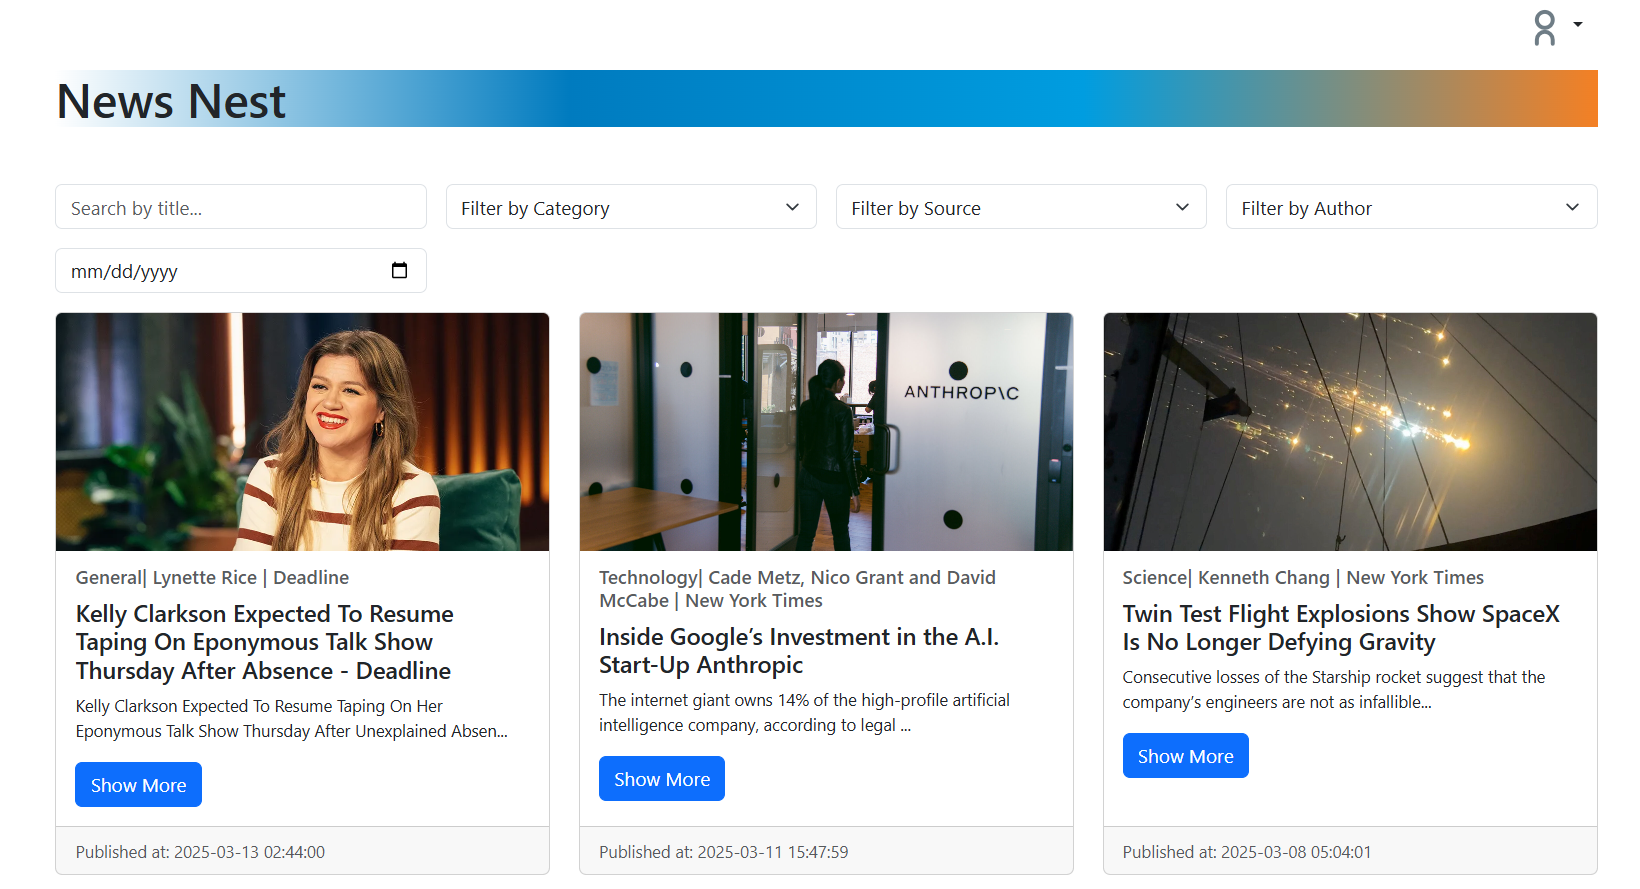
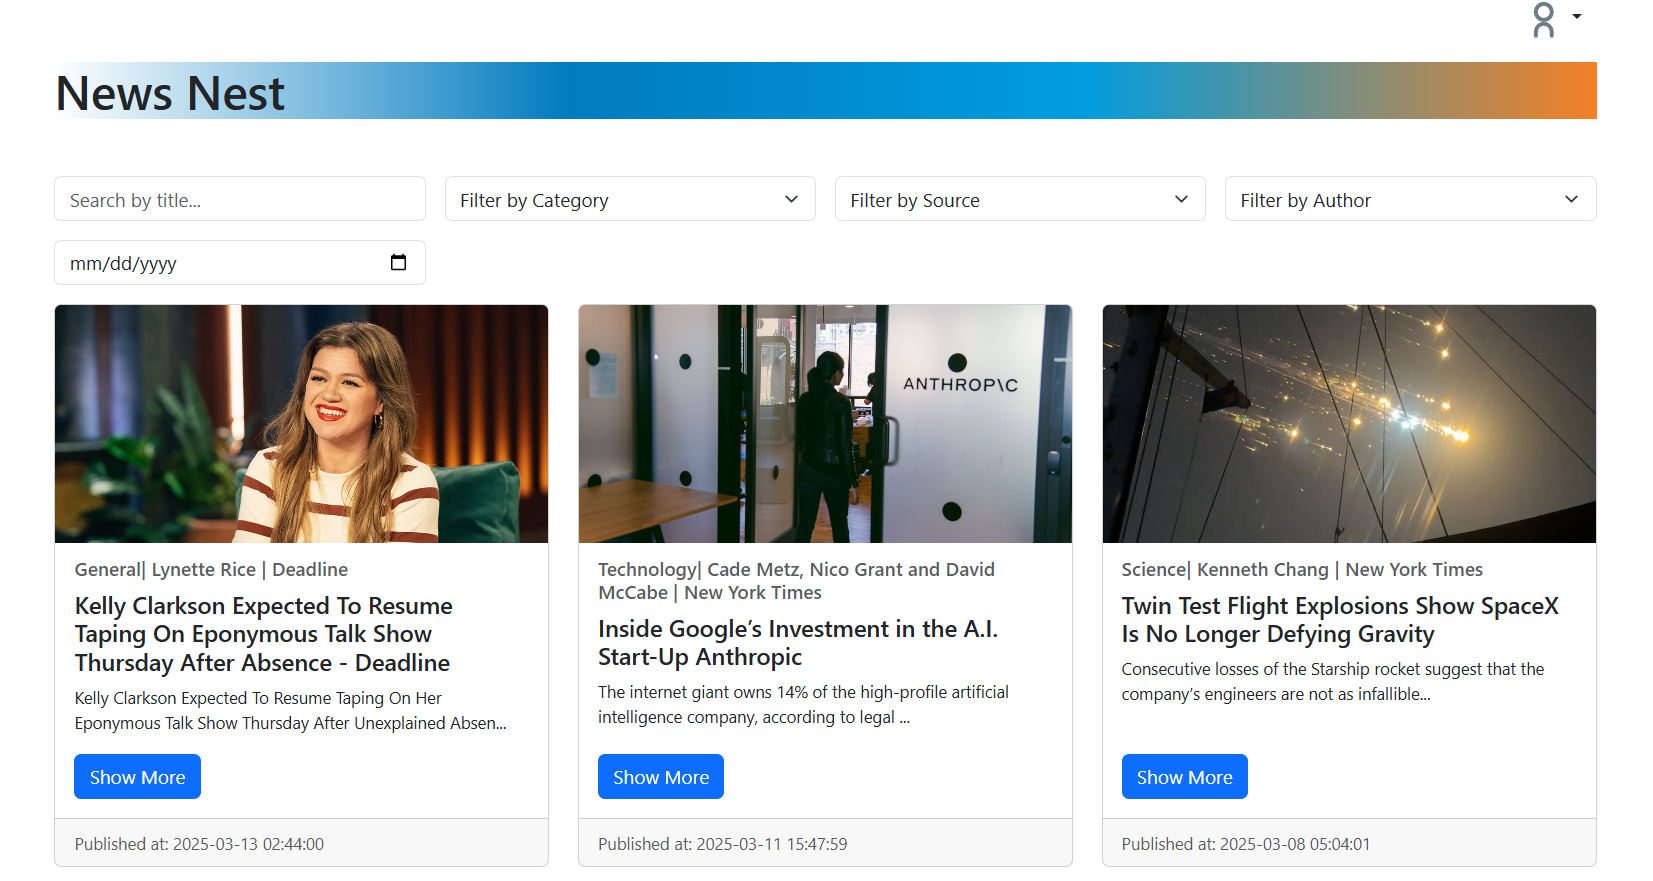
Fixing Button alignment in card

diff --git a/src/components/ArticleCard.tsx b/src/components/ArticleCard.tsx
@@ -3,7 +3,7 @@ import { ArticleCardProps } from "../types/types";
 
 const ArticleCard: React.FC<ArticleCardProps> = ({ article, setModalArticle }) => (
   <div className="col-md-4 mb-4">
-    <Card className="h-100">
+    <Card className="h-100 d-flex flex-column">
       <a href={article.url} target="_blank" rel="noopener noreferrer">
         <Card.Img
           variant="top"
@@ -11,16 +11,22 @@ const ArticleCard: React.FC<ArticleCardProps> = ({ article, setModalArticle }) =
           style={{ height: "200px", objectFit: "cover" }}
         />
       </a>
-      <Card.Body>
+      <Card.Body className="d-flex flex-column flex-grow-1">
         <Card.Subtitle className="mb-2 text-muted">
           {article.category.name.charAt(0).toUpperCase() + article.category.name.slice(1)}
           | {article.author.name} | {article.source.name}
         </Card.Subtitle>
         <Card.Title>{article.title}</Card.Title>
-        <Card.Text style={{ fontSize: "14px" }}>
+        <Card.Text style={{ fontSize: "14px" }} className="flex-grow-1">
           {article.summary.length > 100 ? article.summary.substring(0, 100) + "..." : article.summary}
         </Card.Text>
-        <Button variant="primary" onClick={() => setModalArticle(article)}>Show More</Button>
+        <Button
+          variant="primary"
+          onClick={() => setModalArticle(article)}
+          className="mt-auto w-35 align-self-start"
+        >
+          Show More
+        </Button>
       </Card.Body>
       <Card.Footer>
         <small className="text-muted">Published at: {article.published_at}</small>
